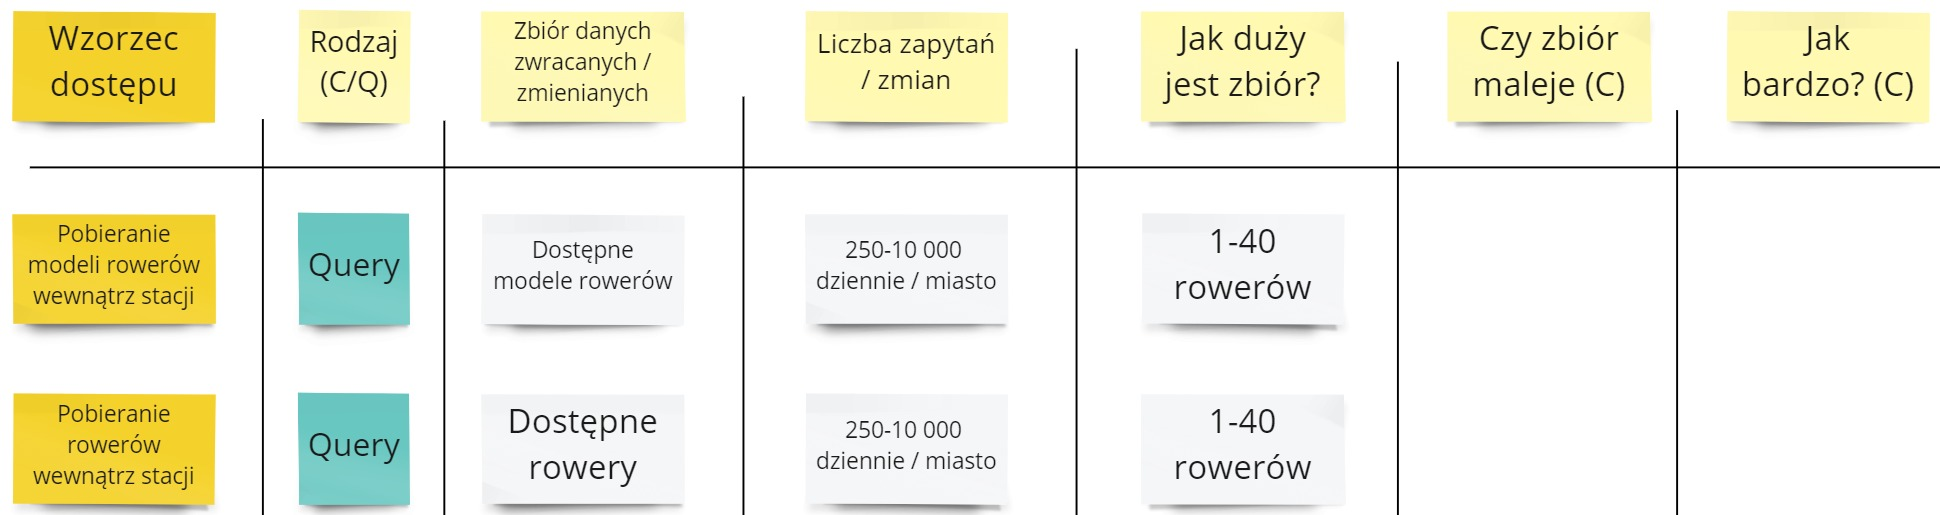
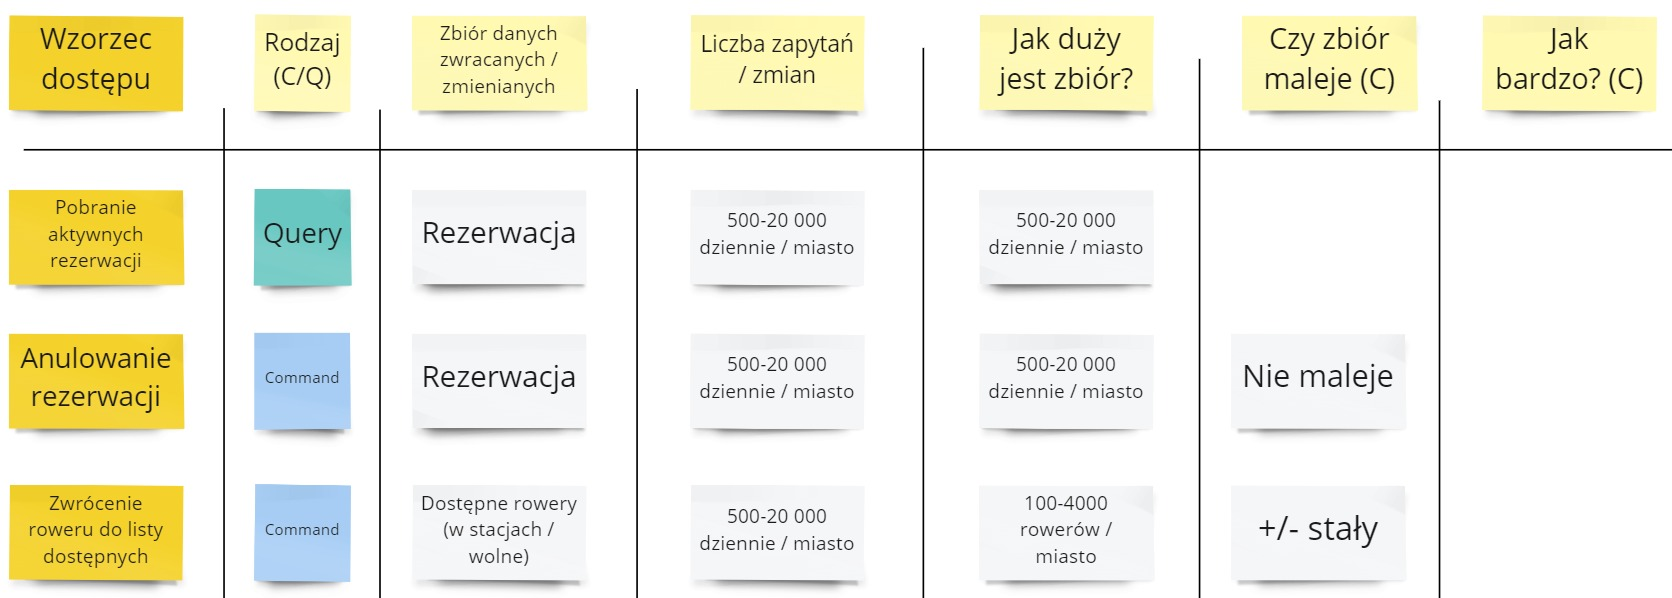
Finish post about database requirement in cosmos db series

diff --git a/page/content/pl/posts/2022/2022-06/modelowanie-w-cosmosdb-wymagania-bazy-danych/index.md b/page/content/pl/posts/2022/2022-06/modelowanie-w-cosmosdb-wymagania-bazy-danych/index.md
@@ -72,9 +72,44 @@ Na koniec przyjrzyjmy się zwrotowi:
 
 [![](automatic-stop.jpg)](automatic-stop.jpg)
 
+Nie mamy tutaj zbyt wiele dodatkowych wzorców dostępu. Można je zamknąc w 3 wpisach:
+
+[![](return-wymagania.jpg)](return-wymagania.jpg)
+
+Zsumowaliśmy wszystkie wzorce skupione na kończeniu wypożyczenia - mamy ich tyle samo ile startów wypożyczeń.
+
+Ciekawa sytuacja jest za to z pobieraniem danych o wypożyczeniach. Mamy tutaj dwa różne podejścia - jedno sprawdzające aktywne wypożyczenia, a drugie sprawdzające rower w wypożyczenia. Może to mieć wpływ na naszą wydajność.
+
+## Podsumowanie
+
+Zróbmy połączenie wszystkich opisanych przez nas wzorców razem:
+
+[![](wymagania-bazodanowe.jpg)](wymagania-bazodanowe.jpg)
+
+Mamy 16 różnych wzorców dostępu, z 3 obszarów - rezerwacji, wypożyczeń, zwrotów. Widzimy zapytania i komendy do różnych zbiorów, różną liczbę zapytań, różne podejścia. Jest nad czym pracować 😀
+
+W kolejnym odcinku przeprowadzimy syntezę zebranych informacji.
 
 ## Pytania
 
-### Czemu nie ma point-readów?
+### Czemu nie ma odczytów pojedynczych obiektów?
 
-Ponieważ one nie są wymagane do ogarniania planu bazy danych. Za to będą wartościowe by wyliczyć ostateczny koszt, ale to jest lepiej robić na bazie bezpośrednich wyników z bazy danych.
+W części scenariuszy biznesowych będzie wymagane np. pobranie pojedynczej rezerwacji na podstawie jej identyfikatora. Dlaczego nie wpisujemy tego w tabelę wzorców dostępu?
+
+**Ponieważ (w mojej ocenie) nie są one wymagane do planowania struktury bazy danych.** Zawsze odczytujemy cały obiekt. W bazie Cosmos DB jest to najprostszy i najmniej problematyczny mechanizm. Zależy oczywiście od odpowiedniego zamodelowania obiektu - to zrobimy w kolejnych odcinkach.
+
+Pojedyncze odczyty będą wartościowe by wyliczyć ostateczny koszt. To jednak jest lepiej robić na bazie bezpośrednich wyników z bazy danych.
+
+### Skąd wiadomo jakie zbiory mieć?
+
+W naszej tabeli wzorców dostępu wykorzystujemy następujące zbiory:
+
+- Dostępne rowery
+- Rezerwacje
+- Wypożyczenia
+
+Skąd wiadomo, że nie potrzebujemy np. zbioru Zwrotu? Zamiast zmieniać Wypożyczenie, będziemy na jego podstawie tworzyć obiekt Zwrotu.
+
+**Na tym momencie to nie ma aż takiego znaczenia.** Potrzebujemy mieć ogólne zrozumienie co chcemy z tej bazy danych wyciągnąć. Nie musimy być tutaj 100% prawidłowi.
+
+Na podstawie wymagań bazy danych będziemy następnie proponować obiekty bazodanowe. Wtedy możemy się zastanowić nad plusami i minusami każdego zbioru.
